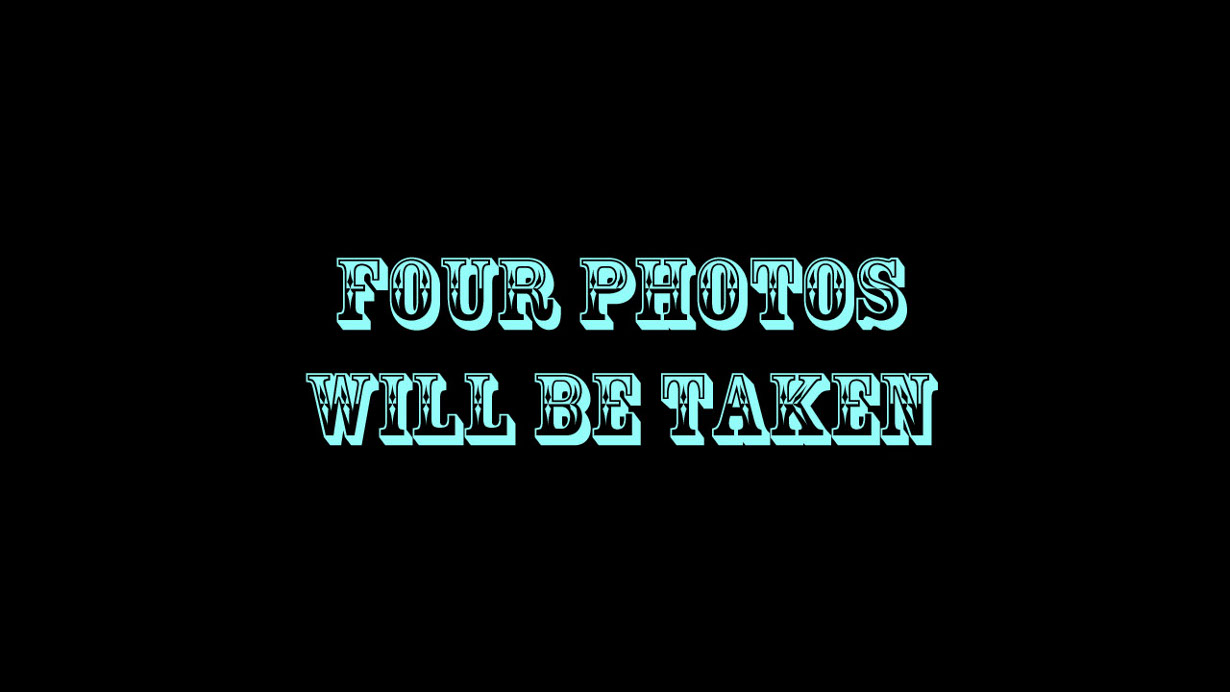
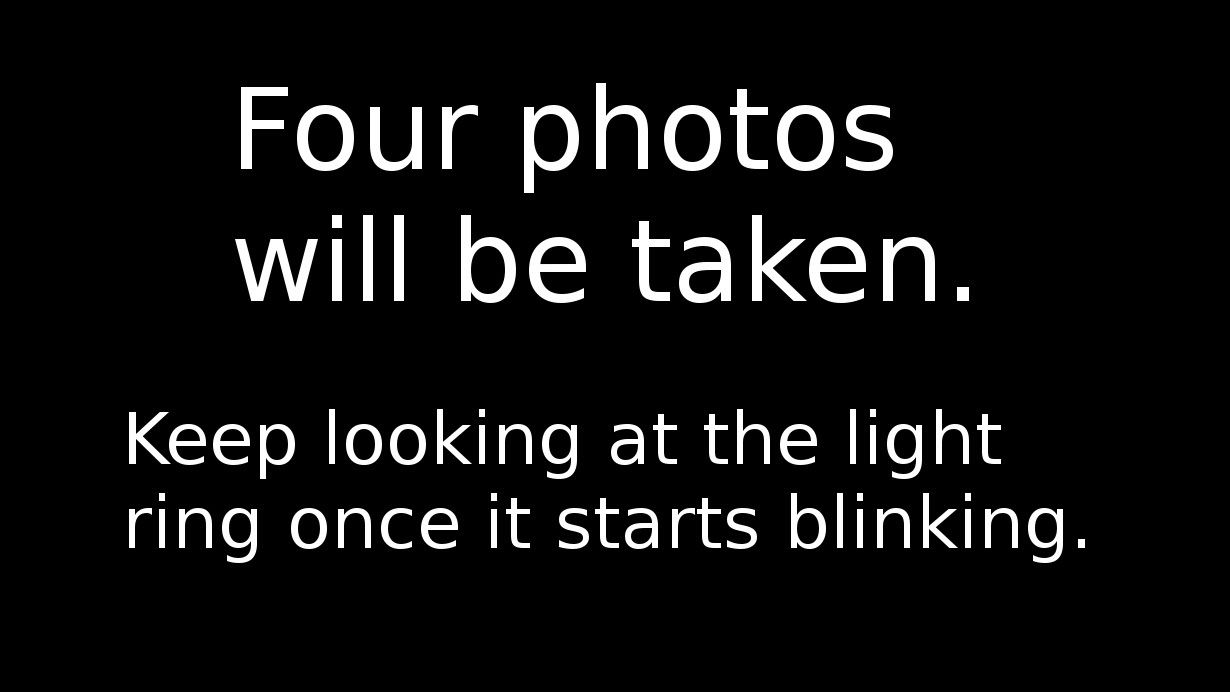
added more instructions to images and lengthened dureation of 4-photos image

diff --git a/photobooth.py b/photobooth.py
@@ -169,7 +169,7 @@ for element in loop:
 
 	if display:
 		displayimage(screen, 'images/fourphotostaken.jpg', size)
-		time.sleep(2.0)
+		time.sleep(3.0)
 		fillscreen(screen, black)
 
 	# keep track of the starting time for some statistics...
